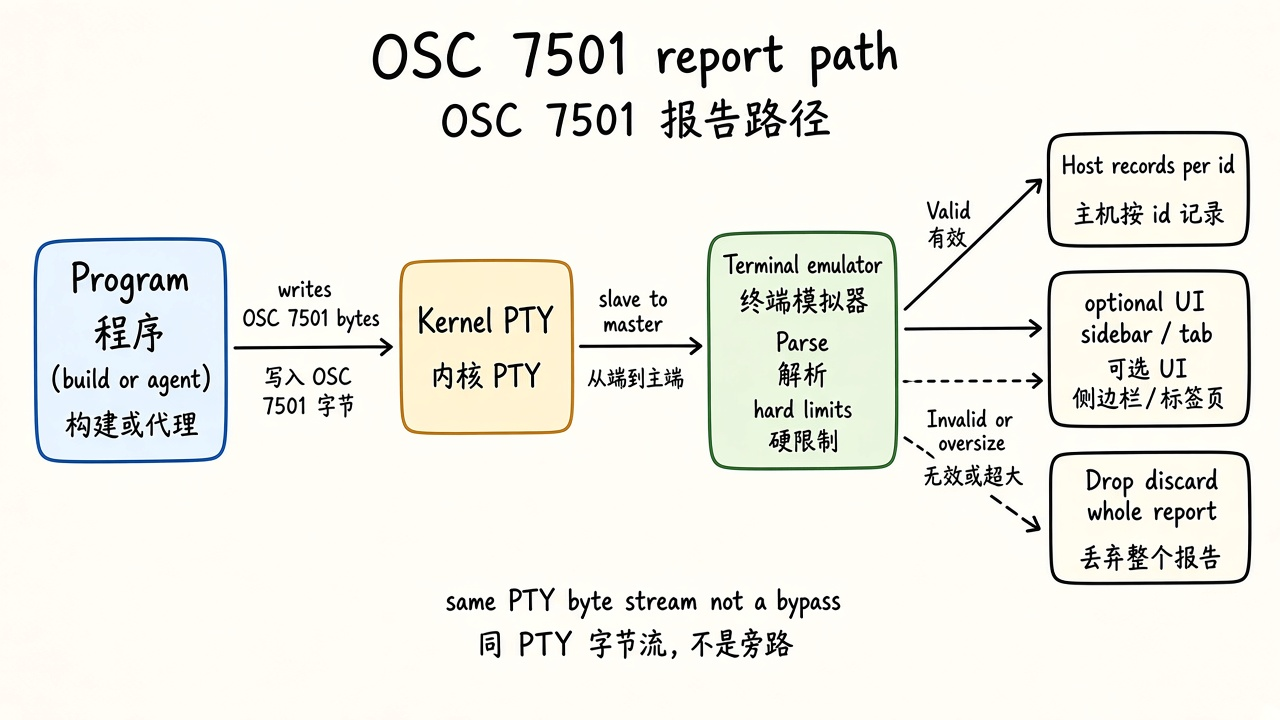
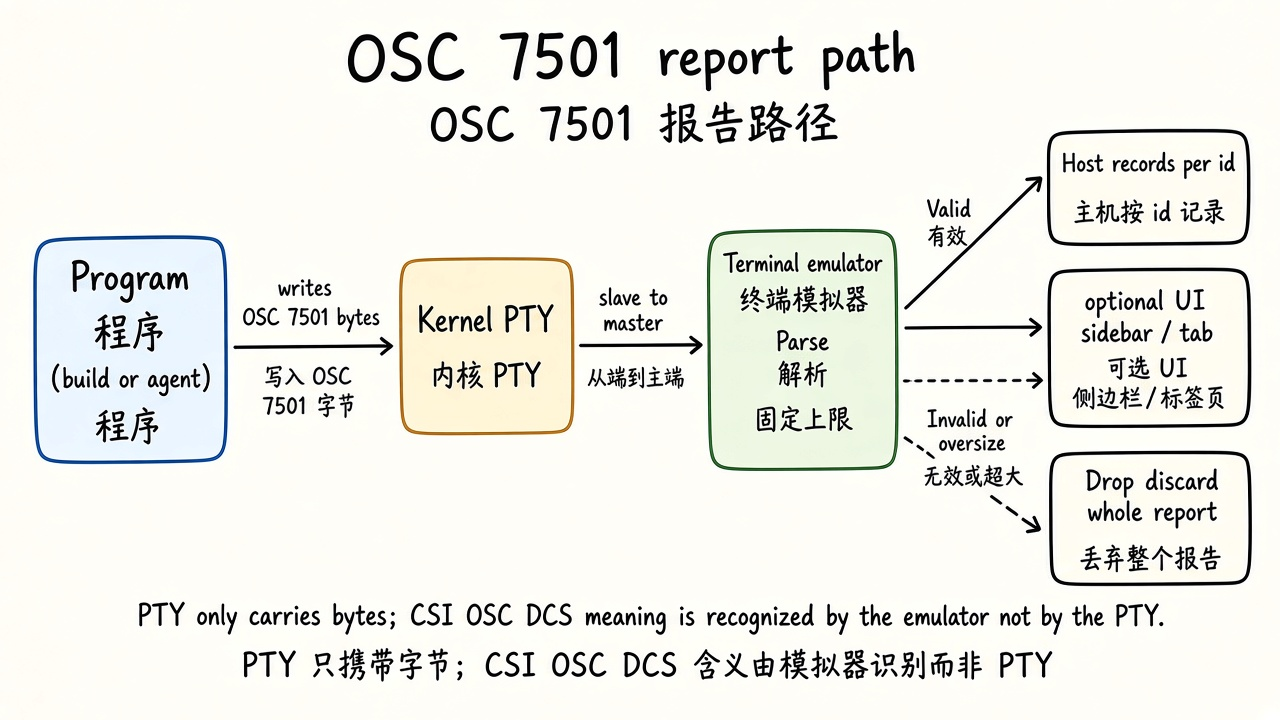
docs(systems): drop 硬上限 jargon; clarify sequences are not PTY
Replace 硬上限 with 不可放宽的上限 / 固定上限, record both terms in
jargon-rules, and spell out that CSI/OSC/DCS are emulator-parsed bytes
while the PTY only shuttles them. Refresh the OSC 7501 report-path figure.

diff --git a/wiki/topics/systems/terminal.md b/wiki/topics/systems/terminal.md
@@ -163,7 +163,7 @@ printf '\033[31mred\033[0m\n'
 
 ## 控制序列分层：CSI、OSC、DCS（含 DECRQPSR）
 
-程序经 PTY 写出的控制串，由**终端模拟器用户态**解析。常见几类互不替代，且都走同一条字节流：
+程序经 PTY 写出的控制串，由**终端模拟器用户态**解析。**CSI / OSC / DCS 不是 PTY 的功能**：内核伪终端只负责搬运字节，并提供窗口大小、行规范、信号等设备语义；把 `ESC ] 7501 …` 或 `CSI Ps $ w` 认成「报告」或「查询」的是模拟器。常见几类互不替代，且都走同一条字节流：
 
 | 家族 | 典型引入 | 作用面 | 本页相关例子 |
 | --- | --- | --- | --- |
@@ -192,6 +192,9 @@ printf '\033[31mred\033[0m\n'
 
 **OSC 7501 会绕过 PTY 吗？**  
 不会。报告写进 PTY slave，与颜色 CSI、标题 OSC 一样由模拟器从 master 读出再解析。
+
+**那这些控制序列算不算「PTY 协议」？**  
+不算。PTY 不解析 CSI/OSC/DCS；序列含义由模拟器实现。PTY 相关的是 `termios`、前台进程组、`SIGINT` 等内核终端语义——和 OSC 7501 / DECRQPSR 是不同层。见上节手绘图。
 
 **DECRQPSR 和 OSC 7501 解决同一件事吗？**  
 不。前者保存/恢复终端呈现状态（VT 传统）；后者让程序报告 idle/working/blocked 等业务进度。可同时存在，家族不同。
